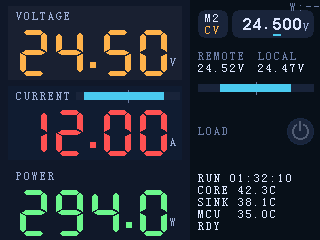
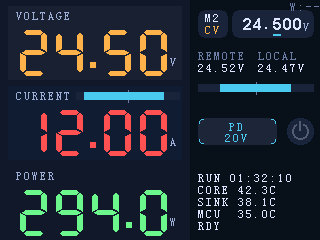
docs: add plan 0019 dashboard PD button label

Changed region(s): [[0.5938, 0.4667, 0.875, 0.6125]]

diff --git a/docs/plan/0019:dashboard-pd-button-label/PLAN.md b/docs/plan/0019:dashboard-pd-button-label/PLAN.md
@@ -1,0 +1,166 @@
+# 主界面：PD 按钮两行文案规范（Detach / PPS / Fixed）（#0019）
+
+## 状态
+
+- Status: 待实现
+- Created: 2026-01-16
+- Last: 2026-01-16
+
+## 背景 / 问题陈述
+
+- 主界面右侧 `PD` 按钮目前是两行文本，但仅在 `PD/5V` 与 `PD/20V` 间切换，信息密度不足：
+  - 无法区分当前配置是否为 `PPS`（APDO）；
+  - 未明确 “未连接/未挂载（Detach）” 状态；
+  - Fixed 模式下也缺少“实际目标电压”表达（未来不止 5/20）。
+
+## 目标 / 非目标
+
+### Goals
+
+- 规范主界面 `PD` 按钮两行显示的**口径与格式**，使其能表达三类配置状态：
+  - Detach（未挂载）显示 `PD/Detach`
+  - PPS 模式显示 `PPS/<V>V`
+  - PD Fixed 模式显示 `PD/<V>V`
+- 颜色语义保持与既有主界面一致（见下方“颜色语义”），不引入新的颜色含义。
+- 文案规则可用于：固件渲染、效果图/标注、以及后续文档引用（可持续契约）。
+  - 说明：Type‑C/PD 规范中常见状态命名为 `Attached/Unattached`；本 UI 使用 “Detach” 作为用户可读的 “Unattached（未连接到 PD Source / 无 Attach）” 表达。
+
+### Non-goals
+
+- 不修改 USB‑PD 协商策略、能力探测、或 Apply/保存逻辑。
+- 不改变 `PD` 按钮的尺寸/圆角/布局（仅规范两行文本内容与格式）。
+- 不新增新的 UI 入口或页面。
+
+## 范围（Scope）
+
+### In scope
+
+- 主界面 `PD` 按钮两行文本的显示规则（含 “/” 代表换行的约定）。
+- 值格式化（Fixed vs PPS 的精度差异）。
+- 与既有颜色语义的对齐与复用（输出状态色、不可用灰显）。
+- 必要时补齐/声明从哪获取“当前配置模式（Fixed/PPS）”与“目标电压（Vreq）”的来源（仅在文档契约中冻结；实现阶段再落地）。
+
+### Out of scope
+
+- 右侧 `PD Settings` 页面内的文案与布局（已由 #0013/#0016 管控）。
+- Web 端显示（如需同步另开计划）。
+
+## 需求（Requirements）
+
+### MUST
+
+- `PD` 按钮文本为两行（下文使用 `<line1>/<line2>` 表示，`/` 代表换行）：
+  - **Detach**：`PD/Detach`
+  - **PPS**：`PPS/<V>V`（`<V>` 显示一位小数，例如 `20.0V`）
+  - **PD Fixed**：`PD/<V>V`（`<V>` 为整数，例如 `20V`）
+- 两行均居中（沿用现有两行 layout，保持 2–3 px 视觉行距）。
+- 颜色语义保持与既有主界面一致：
+  - `pd_state` 决定按钮的主强调色（Standby/Negotiating/Active/Error）。
+  - 当目标档位**不可用**时，下行 `<line2>` 灰显（不改变上行状态色）。
+- 目标值来源：以**合同值（active contract）**为准渲染 `<V>`（而非 EEPROM “期望值”）。
+- 目标值缺失时：下行显示 `N/A`（例如 `PD/N/A` 或 `PPS/N/A`；具体 `<line1>` 取决于当前配置模式）。
+- 未连接（Detach）时：无论当前配置模式为何，均显示 `PD/Detach`（不显示 `PPS/Detach`）。
+
+### SHOULD
+
+- 当目标电压无法判定或缺失时，下行显示一个“明确的占位符”，避免误导（占位符细节见开放问题）。
+- “不可用（target unavailable）” 的判断规则对 Fixed 与 PPS 都一致可解释（例如来自能力列表/合同信息/范围校验）。
+
+### COULD
+
+- 在 Error 状态下（`pd_state=Error`），下行可切换为更诊断向的短码（例如 `Err`），但必须保持两行布局不抖动（本计划默认不做，除非主人选择）。
+
+## 颜色语义（与既有主界面保持一致）
+
+> 颜色与含义的权威来源：`docs/interfaces/main-display-ui.md`（此处只做与本计划相关的最小复述）。
+
+- `#4CC9F0`（theme / cyan）：主界面强调色（例如输出 ON、PD Active、进度条 fill、选中态）。
+- `#FFB24A`（CV / amber）：电压相关的高可见强调（如大号 Voltage 数字、PD Negotiating）。
+- `#FF5252`（CC / red）：电流相关的高可见强调 + 错误态（如大号 Current 数字、PD Error）。
+- `#6EF58C`（power / green）：功率数字强调（Power digits）。
+- `#555F75`（muted / gray）：不可用/禁用/Standby（例如未启用的按钮边框或灰显的目标档位）。
+- 文本与背景/分割线等中性色：沿用既有 palette（不在本计划重复列全表）。
+
+## 接口契约（Interfaces & Contracts）
+
+### 接口清单（Inventory）
+
+| 接口（Name） | 类型（Kind） | 范围（Scope） | 变更（Change） | 契约文档（Contract Doc） | 负责人（Owner） | 使用方（Consumers） | 备注（Notes） |
+| --- | --- | --- | --- | --- | --- | --- | --- |
+| `DashboardPdButtonLabel` | UI Component | internal | Modify | `./contracts/ui-components.md` | digital UI | dashboard main screen | 规范两行文本的内容/格式/颜色语义 |
+
+### 契约文档（按 Kind 拆分）
+
+- [contracts/ui-components.md](./contracts/ui-components.md)
+
+## UI 设计约束（Design constraints; frozen）
+
+本计划的“像素/排版/颜色/文案”约束以两处为准（后续实现必须逐条满足）：
+
+- 全局主界面布局文档：`docs/interfaces/main-display-ui.md`（PD button 小节）
+- 组件契约：`docs/plan/0019:dashboard-pd-button-label/contracts/ui-components.md`
+
+## 验收标准（Acceptance Criteria）
+
+- Given `Detach`（未挂载），When 渲染 `PD` 按钮，Then 显示 `PD/Detach`，并保持两行居中与既有行距。
+- Given `PPS` 模式且目标电压为 20000 mV，When 渲染 `PD` 按钮，Then 显示 `PPS/20.0V`（一位小数）。
+- Given `PD Fixed` 模式且目标电压为 20000 mV，When 渲染 `PD` 按钮，Then 显示 `PD/20V`（整数）。
+- Given `pd_state=Standby|Negotiating|Active|Error`，When 渲染，Then 上行状态色与按钮边框状态色保持一致且不引入新的颜色含义。
+- Given 目标档位不可用（例如所选目标不在当前能力列表内），When 渲染，Then 下行灰显（`#555F75`），上行不灰显。
+- Given 目标电压缺失/无法解析，When 渲染，Then 下行使用约定的占位符且不崩溃、不显示误导性电压值。
+
+## 非功能性验收 / 质量门槛（Quality Gates）
+
+### Testing
+
+- Unit tests（如可在 host 侧抽出纯格式化逻辑）：覆盖三种模式 + 缺失值 + 不可用灰显判定。
+- On-device smoke：确认 `PD` 按钮文本不会因为刷新抖动（宽度变化）造成肉眼可见的“跳动”。
+
+### Quality checks
+
+- `cargo fmt --all`
+- `cargo clippy --all-targets --all-features -D warnings`（如仓库/目标允许；不新增工具）
+
+## 文档更新（Docs to Update）
+
+- `docs/interfaces/main-display-ui.md`: 补充/修订 `PD` 按钮两行文本规则（从 “PD/5V|20V” 更新为 Detach/PPS/Fixed 规则）。
+
+## 里程碑（Milestones）
+
+- [x] M1: 冻结三态文案映射（Detach/PPS/Fixed）与触发条件
+- [x] M2: 冻结数值格式化与占位符规则（Fixed 整数 / PPS 一位小数 / `N/A`）
+- [x] M3: 冻结“不可用灰显”判定来源（完整 caps/范围校验）并补齐文档更新点
+
+## 方案概述（Approach, high-level）
+
+- 复用现有 `PD` 按钮两行居中布局：仅替换 `line1/line2` 的生成规则。
+- 将 “显示模式（Detach/PPS/Fixed）” 与 “目标电压（mV）” 作为渲染输入（来自 EEPROM 配置与/或最近一次 PD status/合同），并在契约中冻结字段口径。
+- 将格式化逻辑尽量收敛为纯函数（便于 host 单测），渲染层只负责排版与上色。
+
+## 风险与开放问题（Risks & Open Questions）
+
+（已冻结；无开放问题）
+
+## 参考（References）
+
+- `docs/interfaces/main-display-ui.md`
+- `firmware/digital/src/ui/mod.rs`（dashboard `PD` button 现状）
+- 相关计划：`docs/plan/0013:usb-pd-pps-and-fixed-settings/PLAN.md`、`docs/plan/0016:pd-settings-touch-value-editor/PLAN.md`
+
+## 效果图（Mocks）
+
+> 说明：本组效果图基于 `docs/assets/main-display/main-display-mock-cc.png`，并按本计划的契约重绘 `PD` 按钮区域（含 SmallFont 像素字体），用于主人确认“实际显示效果”。
+
+- 你需要关注的点：
+  - 两行文本是否在按钮内“垂直居中且视觉行距稳定”（不挤、不飘）。
+  - `PPS/20.0V` 的 `.0` 是否清晰可读（不糊成一团）。
+  - `PD/Detach` 与 `*/N/A` 是否在 8×12 像素字体下仍可辨识。
+  - “灰显仅影响第二行”的语义是否符合直觉（第一行仍表达状态色）。
+
+- 组合预览：`docs/assets/main-display/pd-button/dashboard-pd-button-states.png`
+- 单张（320×240）：
+  - Detach：`docs/assets/main-display/pd-button/dashboard-detach.png`
+  - Fixed：`docs/assets/main-display/pd-button/dashboard-fixed-20v.png`
+  - PPS：`docs/assets/main-display/pd-button/dashboard-pps-20.0v.png`
+  - Fixed（unavailable 灰显）：`docs/assets/main-display/pd-button/dashboard-fixed-unavail.png`
+  - PPS（缺失值 N/A）：`docs/assets/main-display/pd-button/dashboard-pps-na.png`

diff --git a/docs/interfaces/main-display-ui.md b/docs/interfaces/main-display-ui.md
@@ -60,6 +60,7 @@
 | Control row | 主界面 Preset 概览与入口：左侧两行 `M#` / `CC|CV`（独立按钮）+ 右侧 target 摘要（独立按钮，单位随 mode 变更） | SmallFont + SetpointFont | 背景 `#1C2638`；`CC` 红 `#FF5252`；`CV` 橙 `#FFB347`；数字 `#DFE7FF`；单位 `#9AB0D8` | 两个圆角矩形：Preset/Mode `(198,10)-(228,38)`；Setpoint `(232,10)-(314,38)`；分别用于：显示 active preset（含编号与 mode）+ 显示 target 摘要；交互语义详见 `docs/plan/0005:on-device-preset-ui/PLAN.md`。 |
 | Voltage pair | 左列 REMOTE `24.52 V`，右列 LOCAL `24.47 V` | 标签 SmallFont；数值 SmallFont（字符间距 0，强制 4 位数格式） | 文本 `#DFE7FF`、标签 `#6D7FA4` | 左列起点 (198,50)，右列起点 (258,50) |
 | Voltage mirror bar | 中心 0 V，左右各 55 px 行程（上限 40 V） | — | 轨道 `#1C2638`，填充与两侧条统一使用 `#4CC9F0`，中心刻度 `#6D7FA4` | 长条 `(198,84)-(314,91)`，中心 x=256 |
+| PD button | 两行：`<line1>/<line2>`（`/` 代表换行）；入口：短按进入 USB‑PD settings | SmallFont | 上行/边框按 PD 状态色；下行在不可用/缺失时灰显 | 圆角矩形 `(198,118)-(277,145)`；文案规则见 `docs/plan/0019:dashboard-pd-button-label/PLAN.md`：Detach→`PD/Detach`；PPS→`PPS/20.0V`；Fixed→`PD/20V`；缺失→`*/N/A` |
 | Status lines (5) | 运行时间 + 温度 + 状态行（例如 `RUN 01:32:10`、`CORE 42.3C`、`SINK 38.1C`、`MCU 35.0C`、`RDY` / `CAL` / `OFF` / `LNK` / `UVLO` / `OCF` / `OVP` / `OTP` / `FLT 0x12345678`） | SmallFont | 默认 `#DFE7FF`；**Status line #5 在异常时闪烁（`#FF5252` ⇄ `#FFFFFF`）** | Right block 底部对齐：Top-left at `(198,172)` 起，每行 +12px，底边距约 12px（**每行最多 15 字符**，避免右侧被裁切） |
 
 ### Status line #5：状态文案（对外缩写，禁止 debug 噪声）
@@ -90,6 +91,44 @@
 - 主界面的 target 摘要文本固定为 7 字符：`DD.dddU`（例如 `12.000A`、`24.500V`）。
 - 数值部分 `DD.ddd` 使用 `SetpointFont`（10×18）绘制；单位 `U` 仍使用 `SmallFont`（8×12）绘制并紧贴其右侧。
 - 主界面不显示“选中位高亮”（避免被误认为可点选子区域）。
+
+### PD button：两行文案与示例（详见 #0019）
+
+![Dashboard PD button label states](../assets/main-display/pd-button/dashboard-pd-button-states.png)
+
+#### Placement（像素契约）
+
+- Button rect：`(198,118)-(277,145)`（含边框），圆角半径 `6 px`。
+- Border thickness：`1 px`（内缩后填充内层）。
+- 与右侧 Power button 的水平间距：`10 px`（见 `PD_BUTTON_GAP_TO_POWER`）。
+- 触控命中区域（Hit box）：与 button rect 一致。
+
+#### Color（颜色语义）
+
+- Base fill：`#1C2638`；Standby border：`#1C2A3F`。
+- Accent（由 PD 状态决定，上行文本 + 非 Standby 边框）：
+  - Standby：`#555F75`
+  - Negotiating：`#FFB347`
+  - Active：`#4CC9F0`
+  - Error：`#FF5252`
+- 下行文本颜色：
+  - 电压值：`accent` 或（不可用时）`#555F75`
+  - `Detach` / `N/A`：固定 `#555F75`（避免与“电压值”混淆）
+
+#### Typography & layout（字体与排版）
+
+- Font：`SmallFont`（8×12），字符间距 `0`，两行均水平居中。
+- 垂直布局（与固件一致，用轻微重叠换取 2–3 px 的视觉行距）：
+  - `pad_top = 3`
+  - `line1_y = rect.top + pad_top`
+  - `line2_y = line1_y + 11`
+
+#### Copy rules（文案规则；`/` 代表换行）
+
+- Detach（未连接到 PD Source / Unattached）：`PD/Detach`（无论配置为 Fixed/PPS 都显示该文案）。
+- Fixed（合同值）：`PD/<V>V`（`<V>` 为整数，例如 `PD/20V`）。
+- PPS（合同值）：`PPS/<V>V`（固定 1 位小数，例如 `PPS/20.0V`）。
+- 缺失值：`PD/N/A` 或 `PPS/N/A`（第二行灰显）。
 
 ## Color Palette
 

diff --git a/docs/plan/0019:dashboard-pd-button-label/contracts/ui-components.md b/docs/plan/0019:dashboard-pd-button-label/contracts/ui-components.md
@@ -1,0 +1,81 @@
+# UI Components contracts — #0019
+
+## `DashboardPdButtonLabel`（主界面 PD 按钮两行文案）
+
+### Scope
+
+- internal（digital on-device UI / dashboard main screen）
+
+### Responsibilities
+
+- 生成并渲染主界面 `PD` 按钮的两行文本（两行居中）：
+  - `<line1>/<line2>`（`/` 表示换行）
+  - 表达 Detach / PPS / PD Fixed 三态
+- 复用既有颜色语义：
+  - `pd_state` → 主强调色（上行 + 边框/按钮状态）
+  - `target_available=false` → 下行灰显
+
+### Geometry (pixel contract)
+
+- Logical frame buffer: `320×240` (landscape, logical coordinate space).
+- PD button rect: `(198,118)-(277,145)`（含边框），radius=`6 px`。
+- Border thickness: `1 px`（内缩 1 像素绘制内层 fill）。
+- Hit box: 与 rect 一致（点击该区域打开 USB‑PD settings）。
+
+### Inputs (data contract)
+
+- `display_mode`: `Detach | Fixed | Pps`
+  - Detach：未连接到 PD Source（Type‑C: Unattached / no Attach）
+  - Fixed：当前配置为 Fixed PDO
+  - Pps：当前配置为 PPS APDO
+- `target_mv`: `Option<u32>`
+  - Fixed：**合同电压**（单位 mV；例如 `20000`）
+  - PPS：**合同电压**（单位 mV；例如 `20000`）
+  - Detach：为 `None`
+- `pd_state`: `Standby | Negotiating | Active | Error`
+- `target_available`: `bool`
+  - `false` 表示目标档位在当前能力/范围内不可用（下行灰显）
+
+### Outputs (render contract)
+
+- `line1`: `PD` 或 `PPS`
+- `line2`:
+  - Detach：`Detach`
+  - Fixed：`{V}V`（整数，例：`20V`）
+  - PPS：`{V}V`（一位小数，例：`20.0V`）
+- Missing/unknown：`N/A`
+- `line1_color`: 由 `pd_state` 决定（复用现有 status accent）
+- `line2_color`:
+  - 电压值：`target_available ? line1_color : #555F75`
+  - `N/A` / `Detach`：`#555F75`（避免与电压值混淆）
+
+### Text layout (pixel contract)
+
+- Font：`SmallFont`（8×12），字符间距 `0`。
+- 两行水平方向居中：
+  - `x = rect.left + (rect.width - text_width)/2`
+  - `text_width = chars * 8`
+- 垂直方向两行（与现状实现一致）：
+  - `pad_top = 3`
+  - `line1_y = rect.top + pad_top`
+  - `line2_y = line1_y + 11`（轻微重叠以获得 2–3 px 视觉行距）
+
+### Formatting rules (testable)
+
+- Fixed：
+  - `target_mv=Some(20000)` → `20V`
+  - 小数部分不显示，不进行四舍五入（电压为整数档位时应直接整除）。
+- PPS：
+  - `target_mv=Some(20000)` → `20.0V`
+  - 一位小数固定显示（包括 `.0`）。
+- Unknown / missing:
+  - `target_mv=None` 且非 Detach 时，`line2 = N/A`。
+
+### Error / edge cases
+
+- 当 `display_mode=Detach`：
+  - 强制 `line1/line2 = PD/Detach`（不显示 `PPS/Detach`）。
+- 当 `display_mode` 与 `target_mv` 不匹配（例如 Fixed 但 `target_mv=None`）：
+  - `line2 = N/A`，不渲染误导性电压值。
+- `target_available=false` 时：
+  - 仅灰显下行，不改变上行状态色（上行仍表达 “当前 PD 状态”）。

diff --git a/docs/plan/README.md b/docs/plan/README.md
@@ -72,3 +72,4 @@
 | 0016 | PD 设置：触屏友好的目标值编辑（无 +/-；点击/滑动选位；旋钮调节） | 待实现 | `0016:pd-settings-touch-value-editor/PLAN.md` | 2026-01-15 | - |
 | 0017 | CP 模式：本机屏幕界面 + HTTP API | 待实现 | `0017:cp-mode-ui-http-api/PLAN.md` | 2026-01-16 | AC: tier B |
 | 0018 | Web：CP 模式控制页 | 待实现 | `0018:web-cp-mode-ui/PLAN.md` | 2026-01-16 | Entry: /$deviceId/cc |
+| 0019 | 主界面：PD 按钮两行文案规范（Detach / PPS / Fixed） | 待实现 | `0019:dashboard-pd-button-label/PLAN.md` | 2026-01-16 | - |
